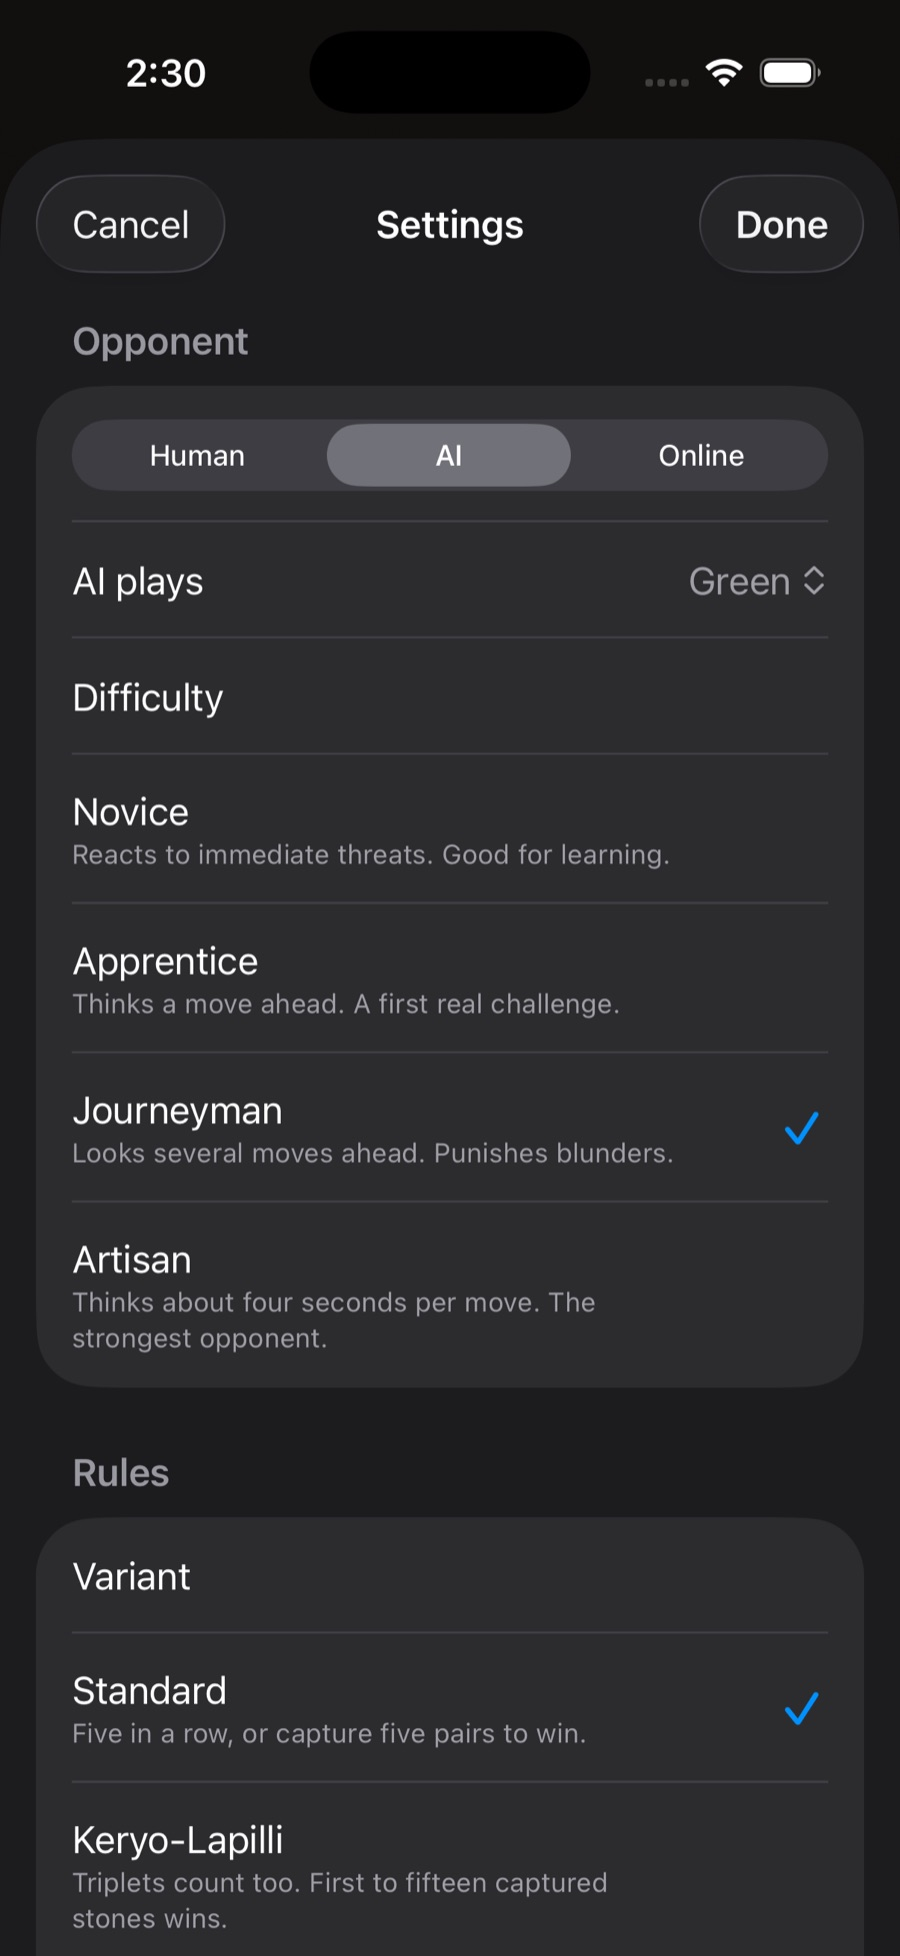
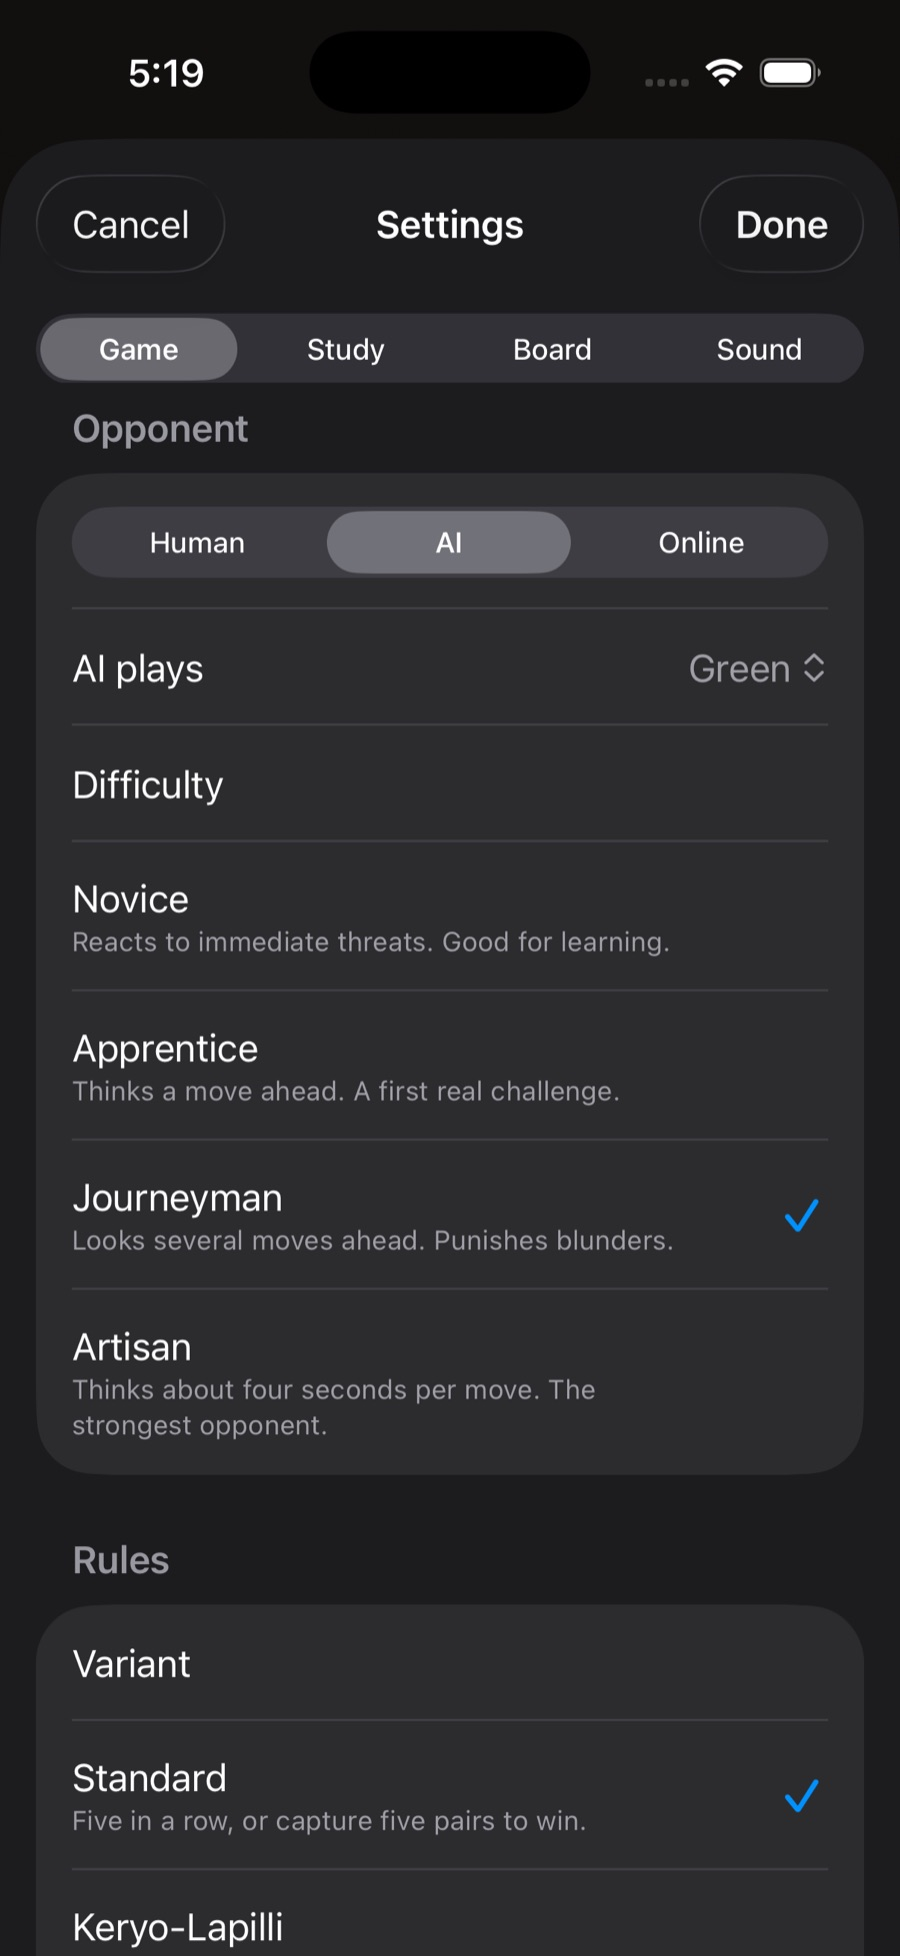
Manual: tabbed Settings and the match chips
Fresh Game/Study tab screenshots, wording updated for the four
tabs, and the online-play bullet now describes the board's-edge
match chips.

diff --git a/manual.html b/manual.html
@@ -111,9 +111,9 @@
   <h2 id="opponent">Choosing an opponent and rules</h2>
   <figure>
     <img src="screenshots/manual-settings.jpg" alt="The Settings sheet: Opponent picker with Human, AI, and Online; the four difficulty tiers Novice, Apprentice, Journeyman, Artisan; the rules variants below" loading="lazy">
-    <figcaption>Opponent, tier, and rules — all on the first screen of Settings.</figcaption>
+    <figcaption>Opponent, tier, and rules — the Game tab of Settings.</figcaption>
   </figure>
-  <p>Settings opens on the Opponent section: pass-and-play with a <strong>Human</strong> beside you, the <strong>AI</strong>, or an <strong>Online</strong> match through Game Center. Against the AI you choose which color it plays and which rung of the workshop ladder you face — Novice, Apprentice, Journeyman, or Artisan, each described in a line under its name. The <a href="opponents.html">Opponents page</a> tells you who they are.</p>
+  <p>Settings is four tabs — Game, Study, Board, and Sound — so nothing hides down a long scroll. The Game tab holds the opponent: pass-and-play with a <strong>Human</strong> beside you, the <strong>AI</strong>, or an <strong>Online</strong> match through Game Center. Against the AI you choose which color it plays and which rung of the workshop ladder you face — Novice, Apprentice, Journeyman, or Artisan, each described in a line under its name. The <a href="opponents.html">Opponents page</a> tells you who they are.</p>
   <p>Below that, the rules: Standard, Keryo-Lapilli (triplet captures count too, first to fifteen stones), and the Tournament variants that restrict the first player's second stone. Changing opponent or rules mid-game asks before it discards the board.</p>
 
   <h2 id="hints">Hints that explain themselves</h2>
@@ -121,11 +121,11 @@
     <img src="screenshots/manual-hint.jpg" alt="The game screen with a dashed golden ring on the suggested square and a caption reading: Nothing is forced here. This builds shape and keeps the initiative." loading="lazy">
     <figcaption>With Explain Hints on, the ring gets a reason.</figcaption>
   </figure>
-  <p>The Hint button always rings a square. Turn on <strong>Explain Hints</strong> — in the Study section of Settings — and each hint also says <em>why</em>, in one line of the language the companion book teaches: this wins outright, this blocks a loss, this answers an open three, this threatens a capture, or nothing is forced and this builds shape. It's off by default; the ring alone is there for players who just want a nudge.</p>
+  <p>The Hint button always rings a square. Turn on <strong>Explain Hints</strong> — on the Study tab of Settings — and each hint also says <em>why</em>, in one line of the language the companion book teaches: this wins outright, this blocks a loss, this answers an open three, this threatens a capture, or nothing is forced and this builds shape. It's off by default; the ring alone is there for players who just want a nudge.</p>
 
   <figure>
     <img src="screenshots/manual-study.jpg" alt="The Study section of Settings: Your Games, Practice Board, The Mirror, and the Explain Hints toggle" loading="lazy">
-    <figcaption>The Study section of Settings — the next three chapters live here.</figcaption>
+    <figcaption>The Study tab of Settings — the next three chapters live here.</figcaption>
   </figure>
 
   <h2 id="your-games">Your Games — the walk-back</h2>
@@ -181,7 +181,7 @@
     <li><strong>Record.</strong> Your wins and losses against every opponent, broken down by rule set and by whether you moved first or second — which is where most players discover their real weakness. Tallies travel between your devices through your own iCloud.</li>
     <li><strong>Sound.</strong> Stone clicks, captures, and wins; an ambient lyre; poplar leaves and an occasional bird. Each has its own switch, and a volume slider covers them all.</li>
     <li><strong>Boards and stones.</strong> Separate choices — play any stones on any board. Color is presentation only; saved games record players by move order, so changing your set never alters a stored game. High Contrast Stones adds an outline ring to every stone.</li>
-    <li><strong>Online play.</strong> Matches run through Game Center, a move at a time, with a time limit the starting player sets — seven days unless changed. While you wait, Play Solo While Waiting keeps a local game going without touching the match. Banners tell you when it's your move; Resign Match in Settings is the way to leave.</li>
+    <li><strong>Online play.</strong> Matches run through Game Center, a move at a time, with a time limit the starting player sets — seven days unless changed. While you wait, Play Solo While Waiting keeps a local game going without touching the match. Your matches sit on the board's edge as name chips — a glowing dot means your move, and tapping a chip puts that match on the board. Resign Match in Settings is the way to leave.</li>
     <li><strong>The book and the tutorial.</strong> The full companion book — rules, strategy, and the legend — is under Help, with a contents menu and a memory for your place. The tutorial replays any time from the same section.</li>
   </ul>
 
